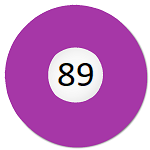
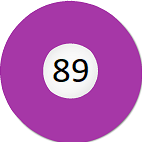
képek méretezése és árnyékolása

diff --git a/style.css b/style.css
@@ -67,3 +67,8 @@ form:hover{
 .clear{
     clear: both;
 }
+img{
+    box-shadow: 4px 4px black;
+    border-radius: 50%;
+    margin: 5px;
+}
